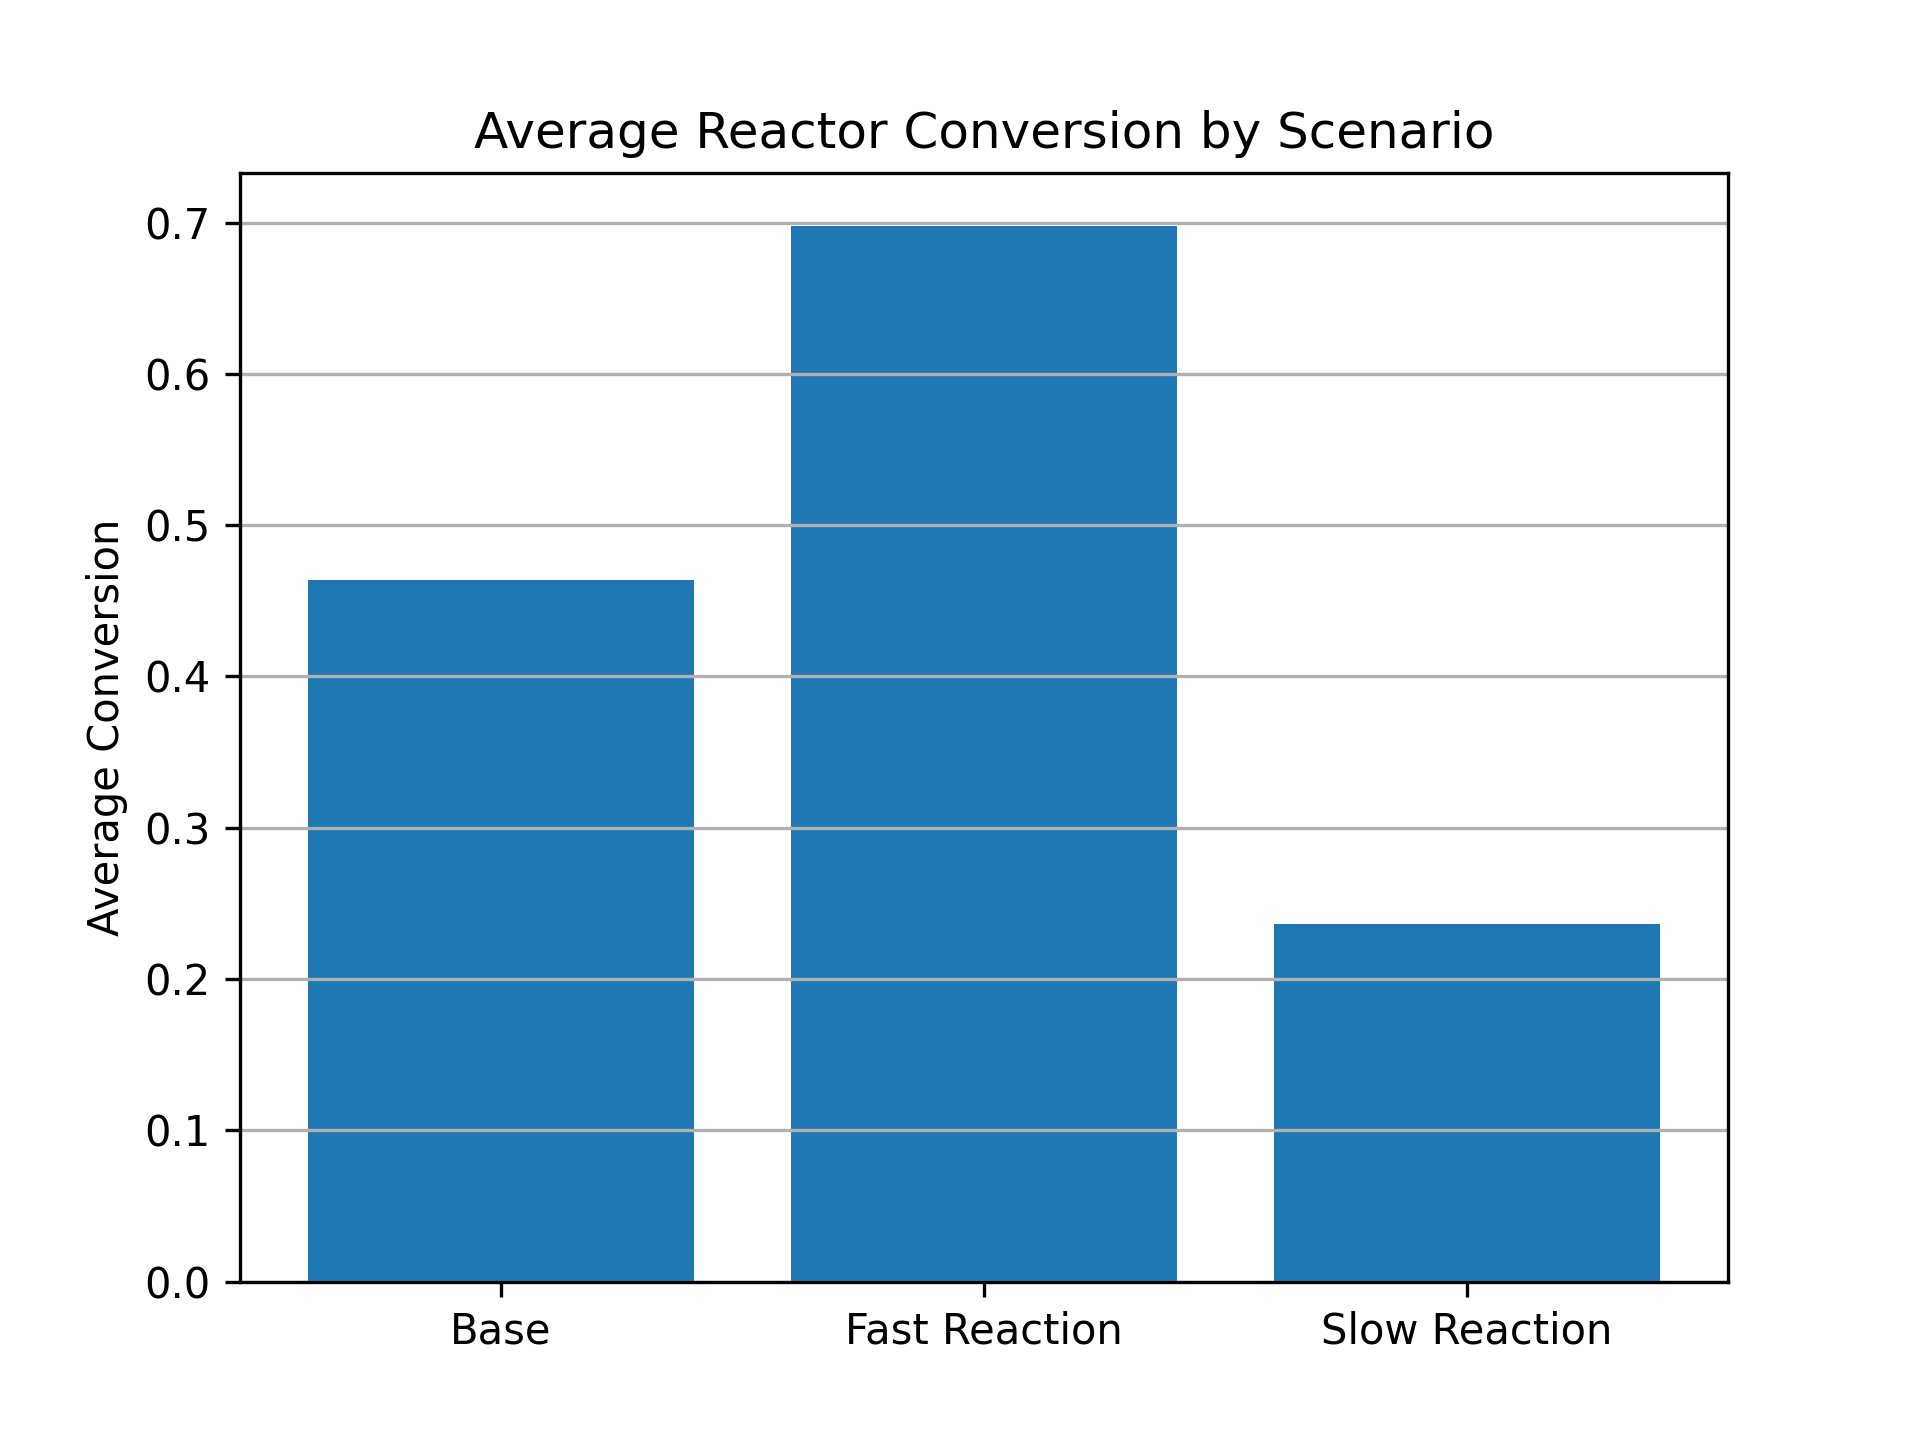
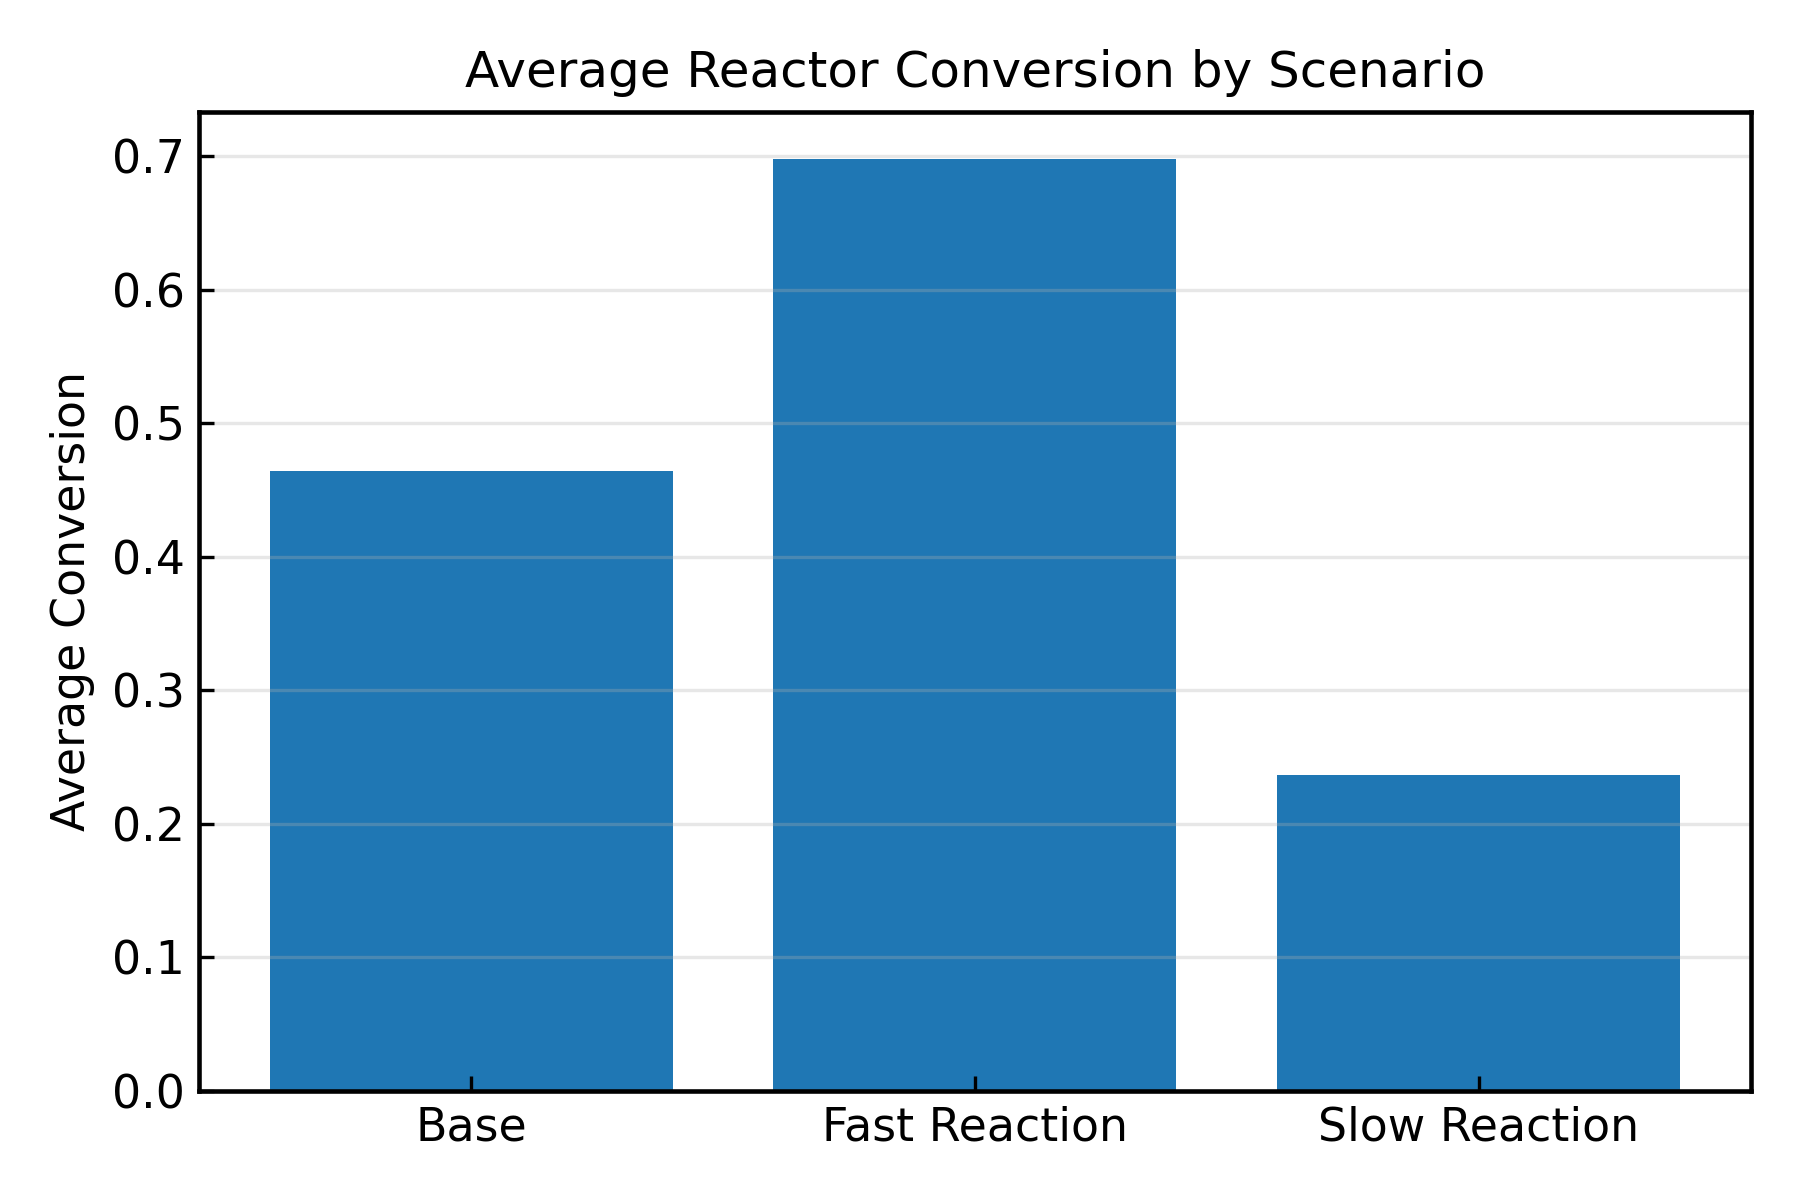
changes to plots saving

diff --git a/plotting.py b/plotting.py
@@ -1,9 +1,10 @@
 import matplotlib.pyplot as plt
 import numpy as np
-from config import PLOT_DIR
 import os
+from config import PLOT_DIR
 
-os.makedirs(PLOT_DIR, exist_ok=True)
+def ensure_plot_dir():
+    os.makedirs(PLOT_DIR, exist_ok=True)
 
 def set_plot_style():
     plt.rcParams.update({
@@ -28,7 +29,6 @@ def set_plot_style():
     })
 
 def plot_conversion(time, y_upper_lim, conversions, labels):
-    set_plot_style()
     """
     time: array of time values
     conversions: list of conversion arrays
@@ -46,12 +46,12 @@ def plot_conversion(time, y_upper_lim, conversions, labels):
     plt.grid(True)
 
     plt.tight_layout()
+    ensure_plot_dir()
     plt.savefig(f"{PLOT_DIR}/conversion_plot.png", dpi=300)
 
     plt.show()
 
 def plot_reaction_rate(time, rates, labels):
-    set_plot_style()
     """
     time: array of time values
     rates: list of reaction rate arrays
@@ -68,12 +68,12 @@ def plot_reaction_rate(time, rates, labels):
     plt.grid(True)
 
     plt.tight_layout()
+    ensure_plot_dir()
     plt.savefig(f"{PLOT_DIR}/reaction_rate_plot.png", dpi=300)
 
     plt.show()
 
 def plot_average_conversion(labels, conversions):
-    set_plot_style()
 
     average_conversions = []
 
@@ -90,6 +90,7 @@ def plot_average_conversion(labels, conversions):
     plt.grid(True, axis="y")
 
     plt.tight_layout()
+    ensure_plot_dir()
     plt.savefig(f"{PLOT_DIR}/average_conversion_comparison.png", dpi=300)
 
     plt.show()
